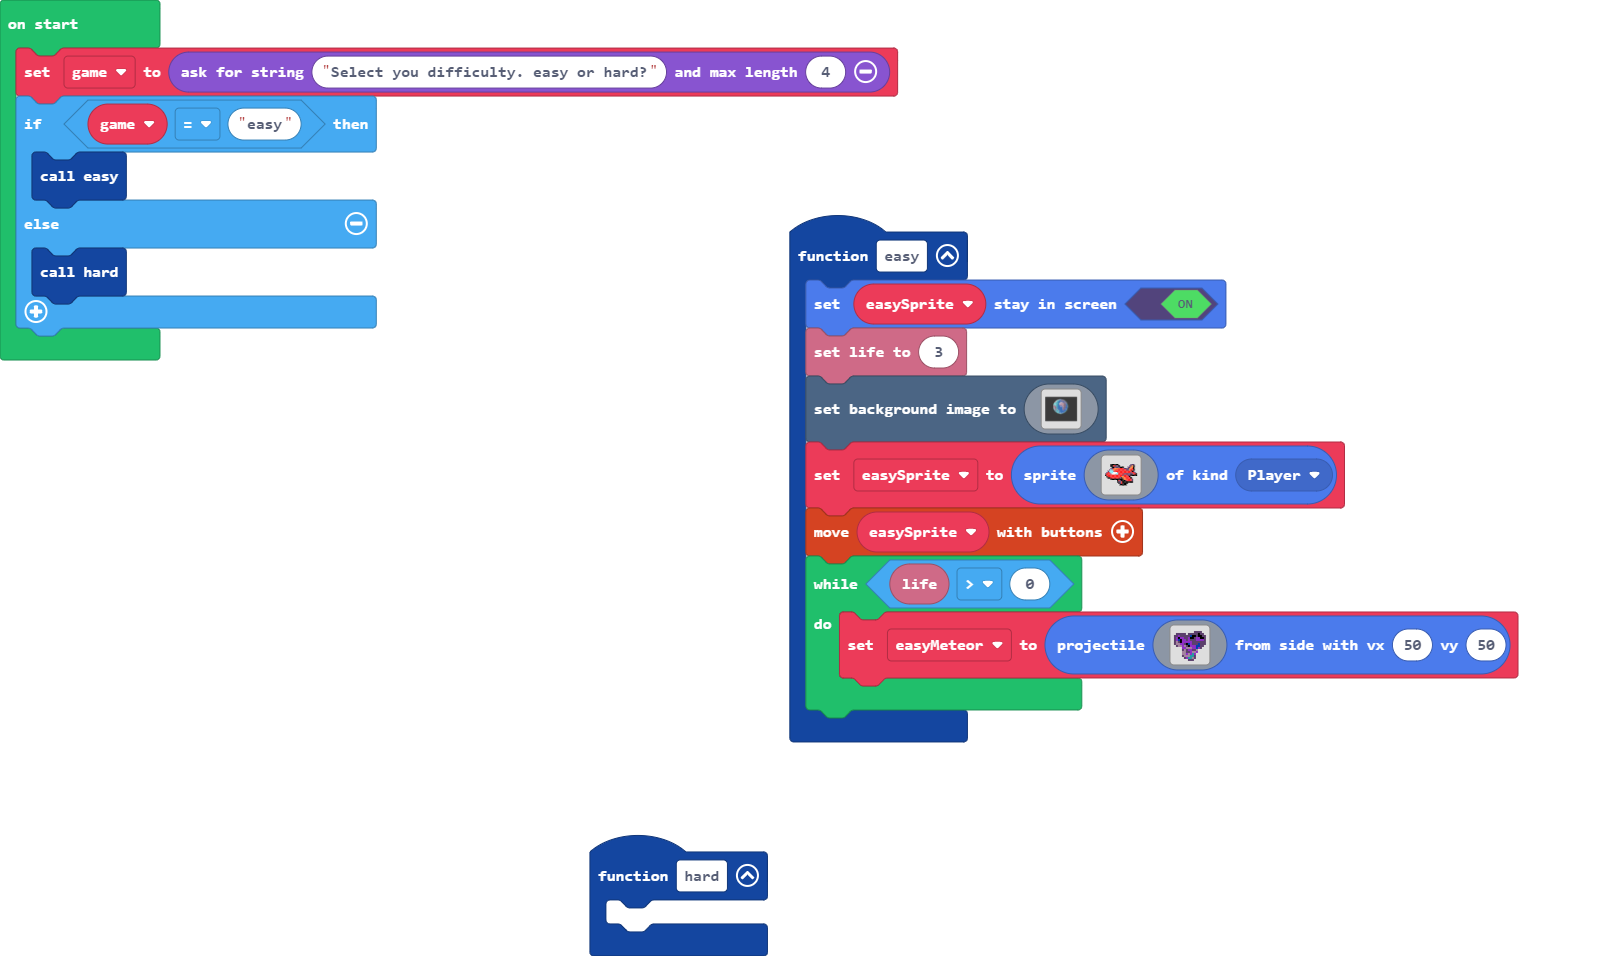
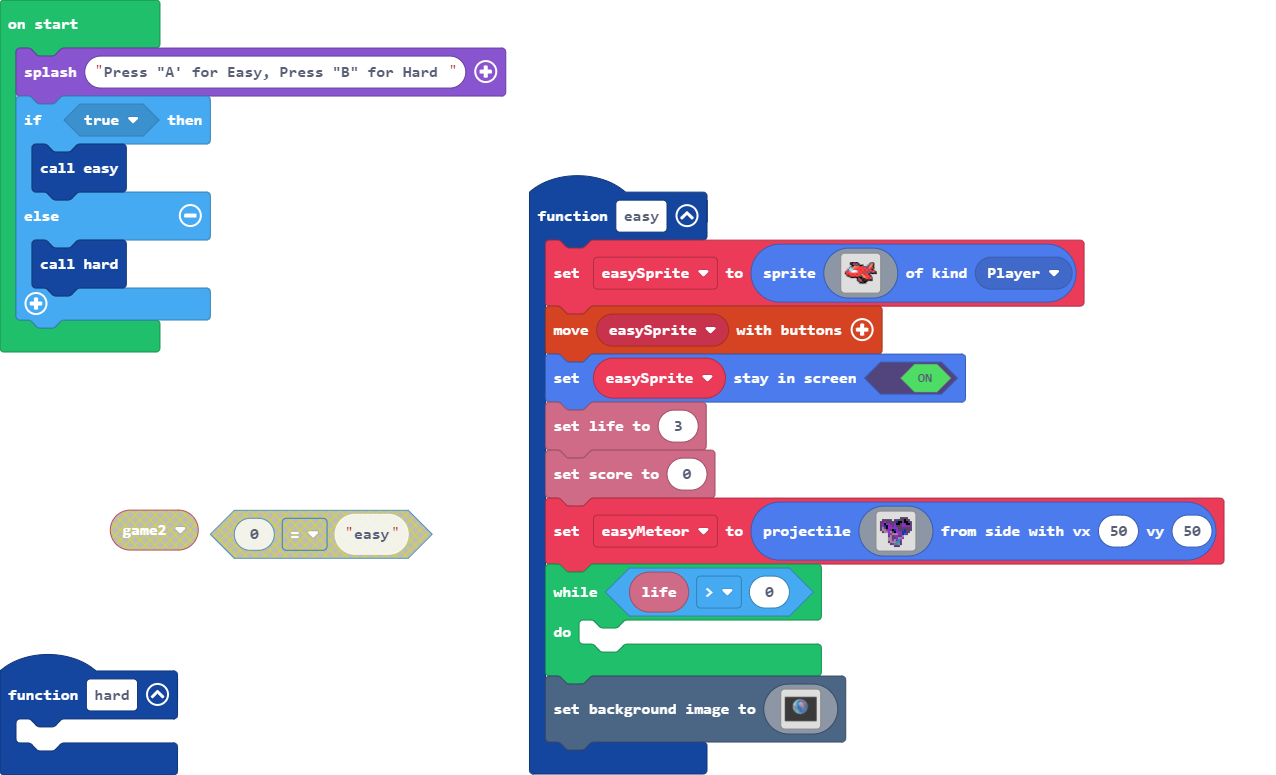
Update main.blocks, main.ts

diff --git a/main.ts b/main.ts
@@ -170,8 +170,8 @@ function hard () {
 }
 let easyMeteor: Sprite = null
 let easySprite: Sprite = null
-let game2 = game.askForString("Select you difficulty. easy or hard?", 4)
-if (game2 == "easy") {
+game.splash("Press \"A' for Easy, Press \"B\" for Hard ")
+if (true) {
     easy()
 } else {
     hard()
